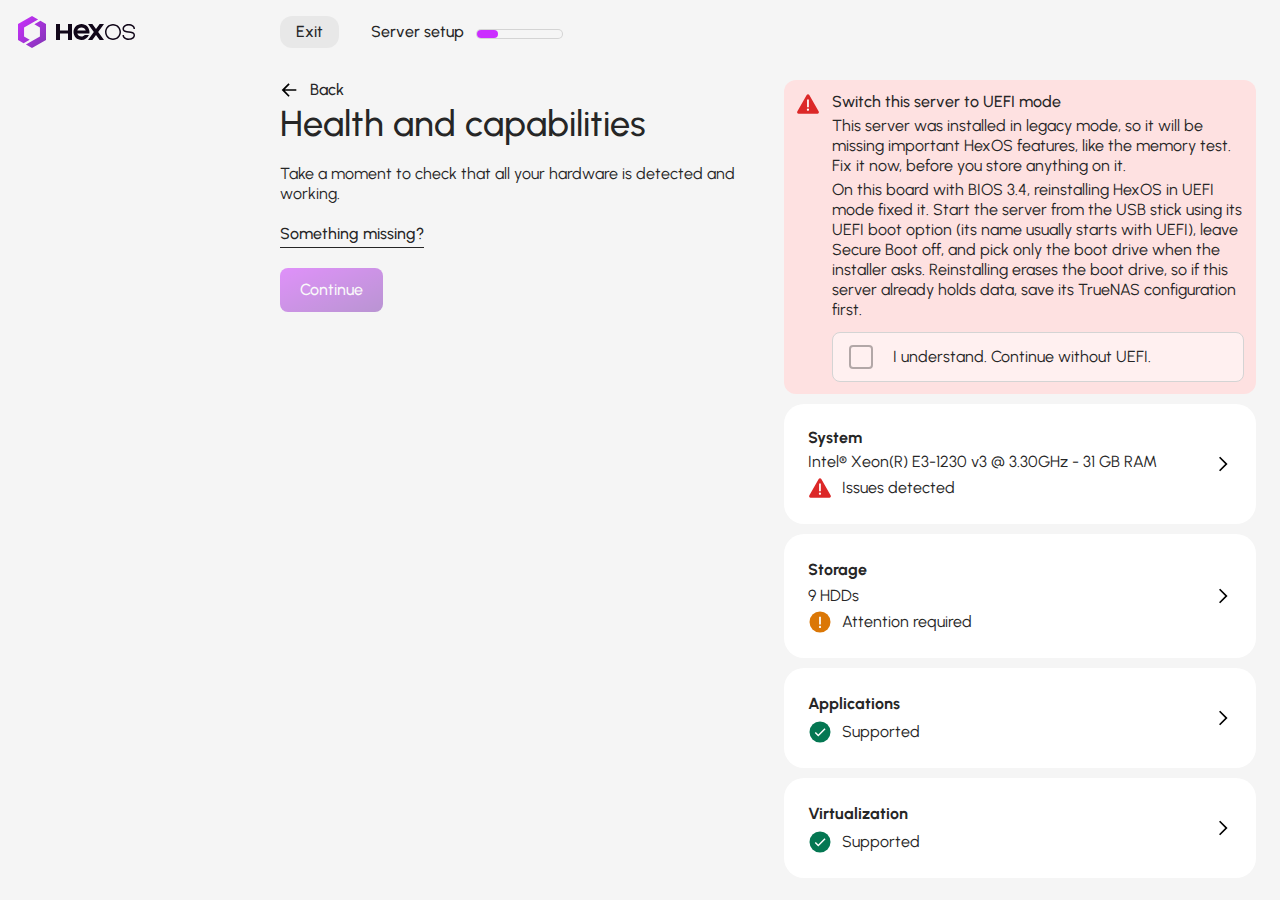
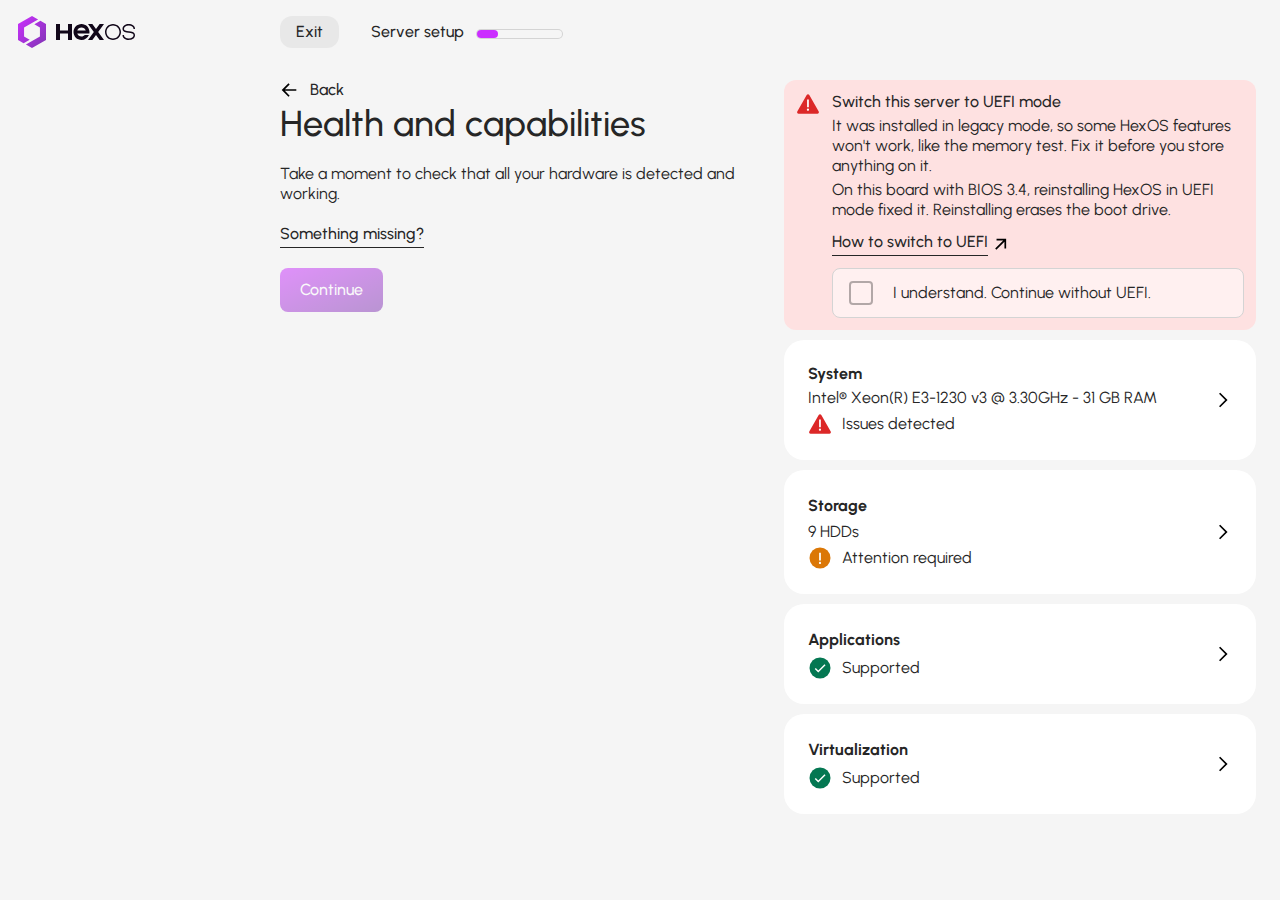
docs: Show the shorter setup UEFI message and its link to this page

Changed region(s): [[0.5938, 0.2178, 1.0, 0.9644], [0.625, 0.1244, 0.9688, 0.2178]]

diff --git a/troubleshooting/uefi-boot-mode.md b/troubleshooting/uefi-boot-mode.md
@@ -40,7 +40,7 @@ Only UEFI firmware lets HexOS ask for that one-time start. In legacy mode there 
 
 On the **Health and capabilities** screen, HexOS checks how your server started. If it started in legacy mode, you see a red message: **Switch this server to UEFI mode**. The **System** card shows **Issues detected**.
 
-The message tells you how to fix it. If HexOS has already tested your model of motherboard, the message says which fix worked on it: switching the setting, or reinstalling.
+If HexOS has already tested your model of motherboard, the message says which fix worked on it: switching the setting, or reinstalling. Click **How to switch to UEFI** in the message to open this page in a new tab.
 
 <details>
 <summary> Switch this server to UEFI mode message </summary>
